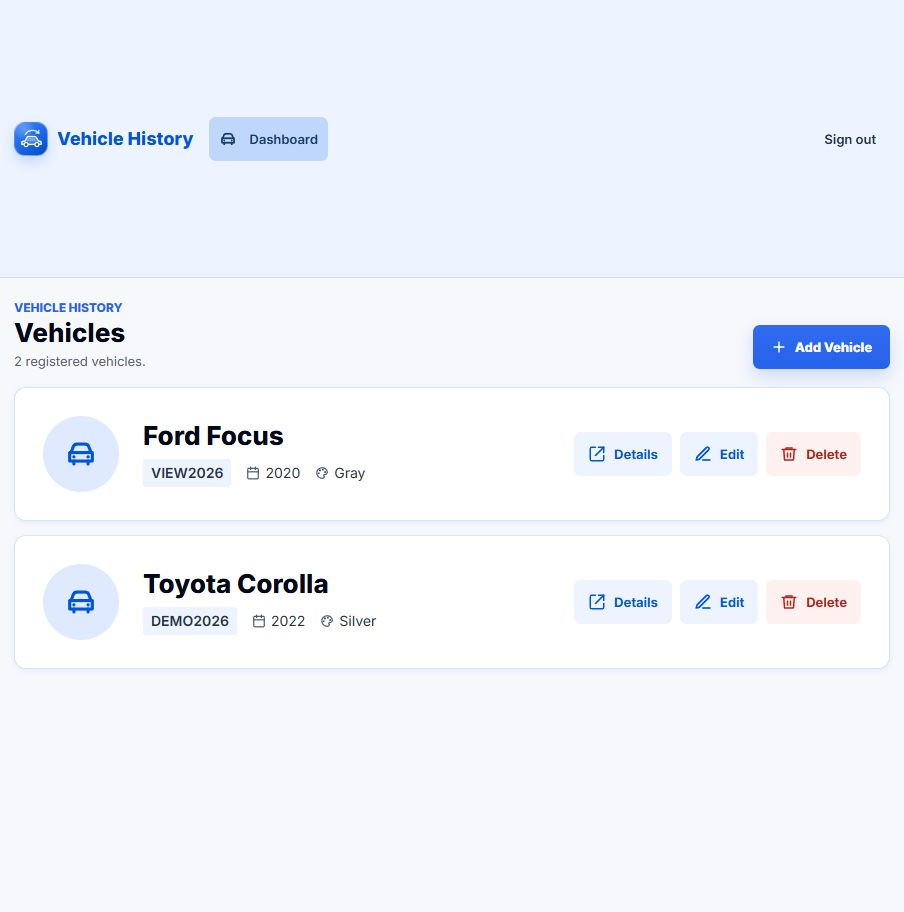
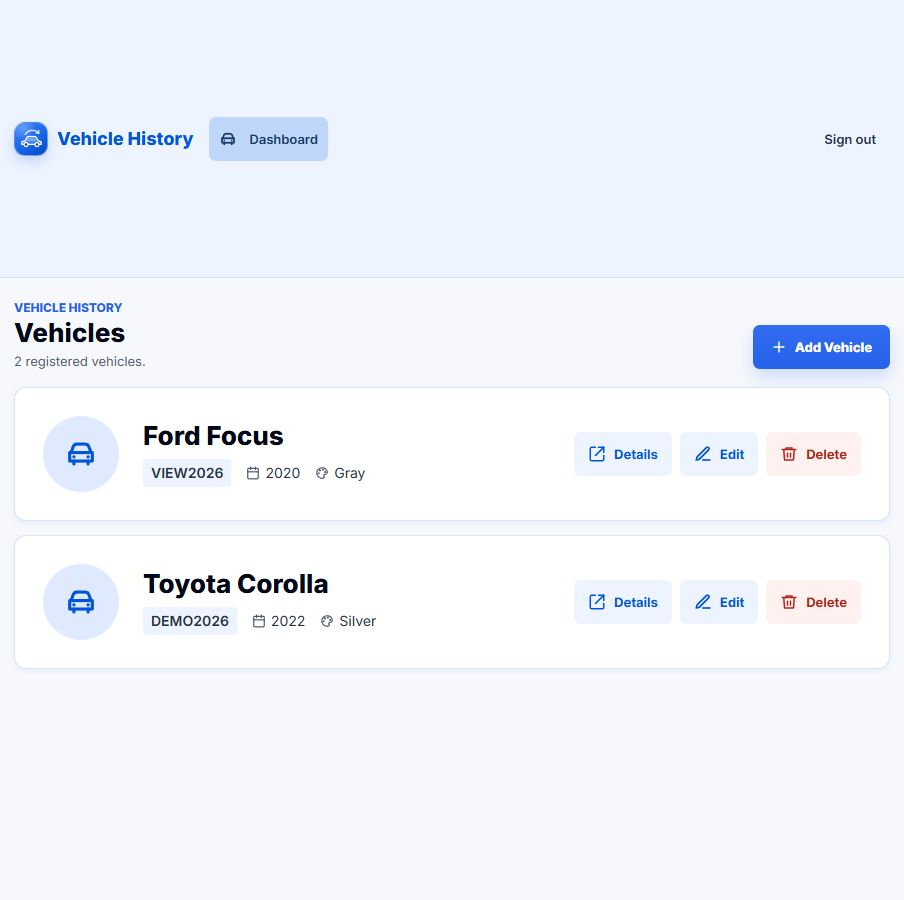
docs: address portfolio readiness review

diff --git a/docs/aws-deployment.md b/docs/aws-deployment.md
@@ -468,6 +468,75 @@ verdadeiros:
 - a evidência pública em [Portfolio Deployment Acceptance](portfolio-acceptance.md)
   está atualizada com o commit, workflow e tag aceitos.
 
+Execute o aceite funcional com uma identidade descartável e valores
+fictícios. Não registre a identidade, a senha ou os tokens. Para registro,
+logout e login:
+
+1. Abra `/register`, crie a conta de teste e espere `/vehicles` carregar.
+2. Escolha **Sign out** e confirme o redirecionamento para `/login`.
+3. Entre novamente e confirme que `/vehicles` abre sem erro de autenticação.
+
+No console de desenvolvimento do navegador, valide a renovação sem imprimir
+tokens:
+
+```javascript
+void (async () => {
+  const currentRefreshValue = localStorage.getItem("vehicle-history.refreshToken");
+  if (!currentRefreshValue) throw new Error("refresh value is absent");
+  const response = await fetch("/v1/auth/refresh", {
+    method: "POST",
+    headers: { "Content-Type": "application/json" },
+    body: JSON.stringify({ refreshToken: currentRefreshValue }),
+  });
+  if (!response.ok) throw new Error(`refresh failed with ${response.status}`);
+  const nextValues = await response.json();
+  localStorage.setItem("vehicle-history.accessToken", nextValues.accessToken);
+  localStorage.setItem("vehicle-history.refreshToken", nextValues.refreshToken);
+  console.log("refresh accepted", response.status);
+})();
+```
+
+O resultado esperado é somente `refresh accepted 200`; nenhum valor deve ser
+impresso. Recarregue `/vehicles` e confirme que a sessão continua autenticada.
+
+Para o CRUD, crie um veículo fictício, abra os detalhes, altere marca, modelo,
+ano e cor, salve e confirme cada valor; depois exclua e confirme que ele saiu
+da lista. Em outro veículo fictício, repita criar, listar, editar e excluir uma
+manutenção, conferindo data, hodômetro, descrição e custo após cada gravação.
+
+Para comprovar persistência no reinício, retenha um veículo e uma manutenção e
+execute no Session Manager:
+
+```bash
+sudo docker restart vehicle-maintenance-history-app-1
+for attempt in $(seq 1 12); do
+  if curl -fsS http://localhost/actuator/health >/dev/null; then
+    printf 'Health check succeeded\n'
+    break
+  fi
+  if [ "$attempt" -eq 12 ]; then
+    printf 'Health check failed\n' >&2
+    exit 1
+  fi
+  sleep 5
+done
+```
+
+O resultado esperado é `Health check succeeded`. Reabra a interface e confirme
+que os dois registros continuam presentes.
+
+Depois de um deploy de `main`, execute:
+
+```bash
+sudo docker inspect --format '{{.Config.Image}}' vehicle-maintenance-history-app-1
+curl -fsS http://localhost/actuator/health
+```
+
+O tag da imagem deve ser `sha-` seguido dos sete primeiros caracteres do commit
+implantado, o Actuator deve responder `UP`, e os registros retidos devem
+continuar disponíveis na interface. Registre somente commit, tag, URL do
+workflow e resultado; nunca registre identidade ou credenciais.
+
 ## 13. Operação e rollback manual
 
 Use uma sessão do **Session Manager**, não SSH, para consultar o serviço:

diff --git a/docs/superpowers/plans/2026-08-22-portfolio-production-readiness.md b/docs/superpowers/plans/2026-08-22-portfolio-production-readiness.md
@@ -504,7 +504,8 @@ Expected: the cadence is factual and does not promise permanent zero cost.
 Open the public `/register` route. Enter:
 
 - full name: `Portfolio Reviewer`;
-- email or phone: `portfolio.acceptance.20260822.1@example.invalid`;
+- email or phone: a unique disposable address under `example.invalid`, generated
+  only for this acceptance run and never committed literally;
 - password: a newly generated test-only value between 16 and 32 characters that is not used anywhere else.
 
 Submit and confirm navigation to `/vehicles`. Keep the password only in the active password-manager/clipboard session; never paste it into chat, terminal, Git, or screenshots.

diff --git a/docs/portfolio-acceptance.md b/docs/portfolio-acceptance.md
@@ -1,5 +1,7 @@
 # Portfolio Deployment Acceptance
 
+Acceptance date: 2026-08-22 (`America/Sao_Paulo`).
+
 ## Scope and safety
 
 This acceptance covers the public portfolio deployment in AWS `us-east-2` and the delivery path from `main` through GitHub Actions, Docker Hub, ECR, Systems Manager, EC2, and a private RDS PostgreSQL instance. All functional checks used fictitious data and a disposable test identity. No credentials, token values, parameter contents, or database addresses were recorded.
